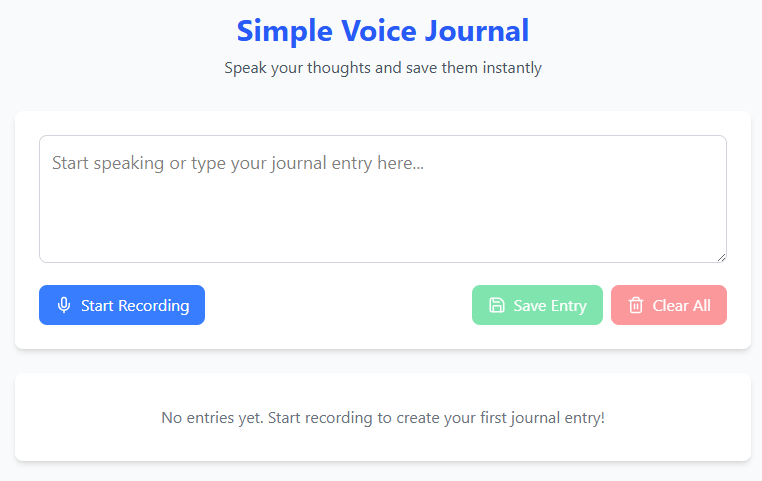
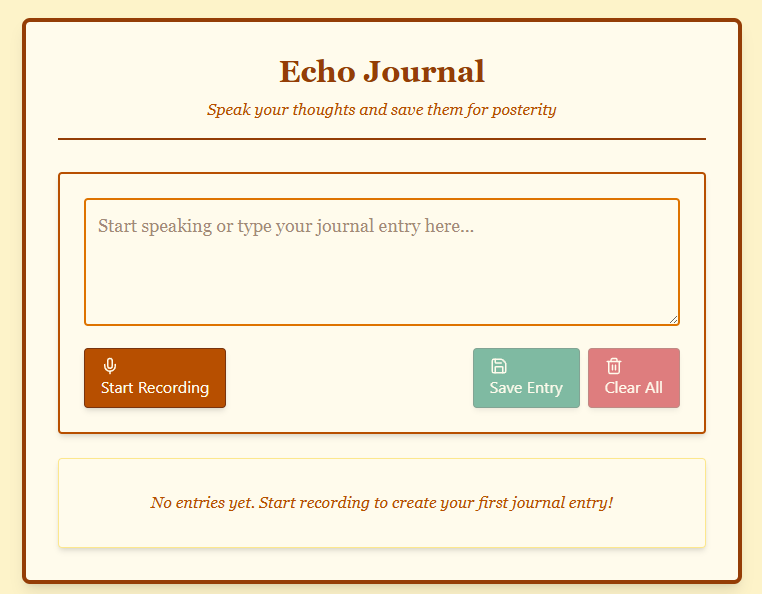
update

Changed region(s): [[0.0, 0.0, 1.0, 1.0]]

diff --git a/src/voiceJournal.jsx b/src/voiceJournal.jsx
@@ -97,7 +97,7 @@ const VoiceJournal = () => {
       <div className='border-4 border-amber-800 p-8 rounded-lg shadow-lg bg-amber-50'>
         <header className='text-center mb-8 border-b-2 border-amber-800 pb-4'>
           <h1 className='text-3xl font-serif font-bold text-amber-800 mb-2'>
-            Vintage Voice Journal
+           Echo Journal
           </h1>
           <p className='text-amber-700 font-serif italic'>
             Speak your thoughts and save them for posterity
